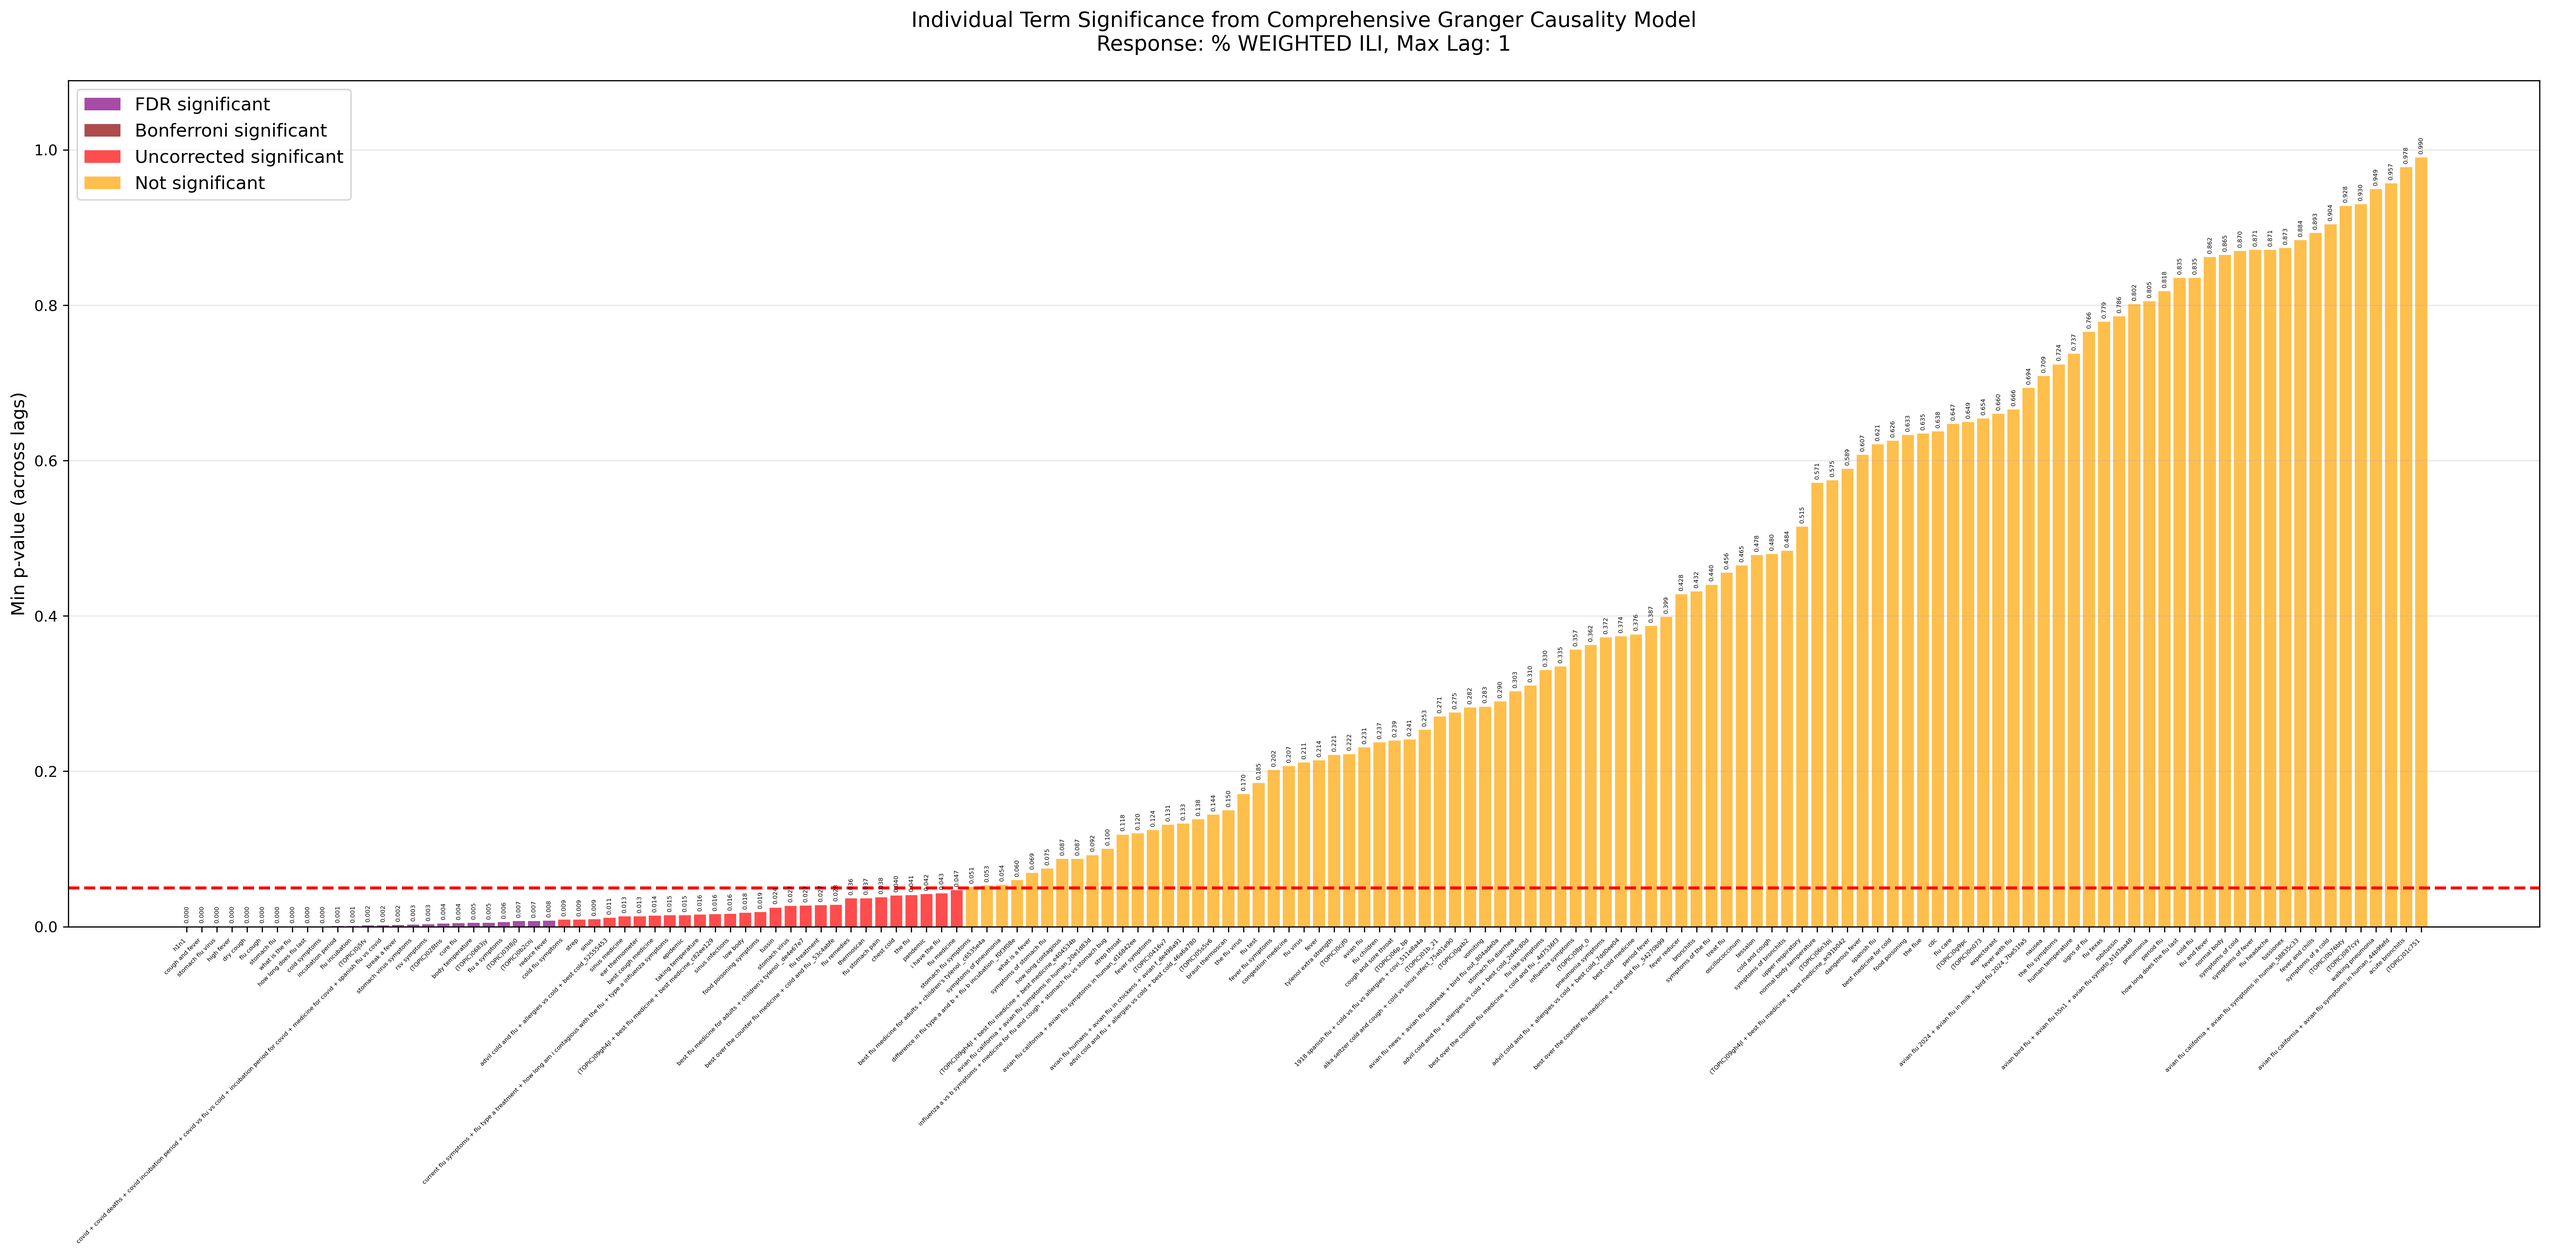
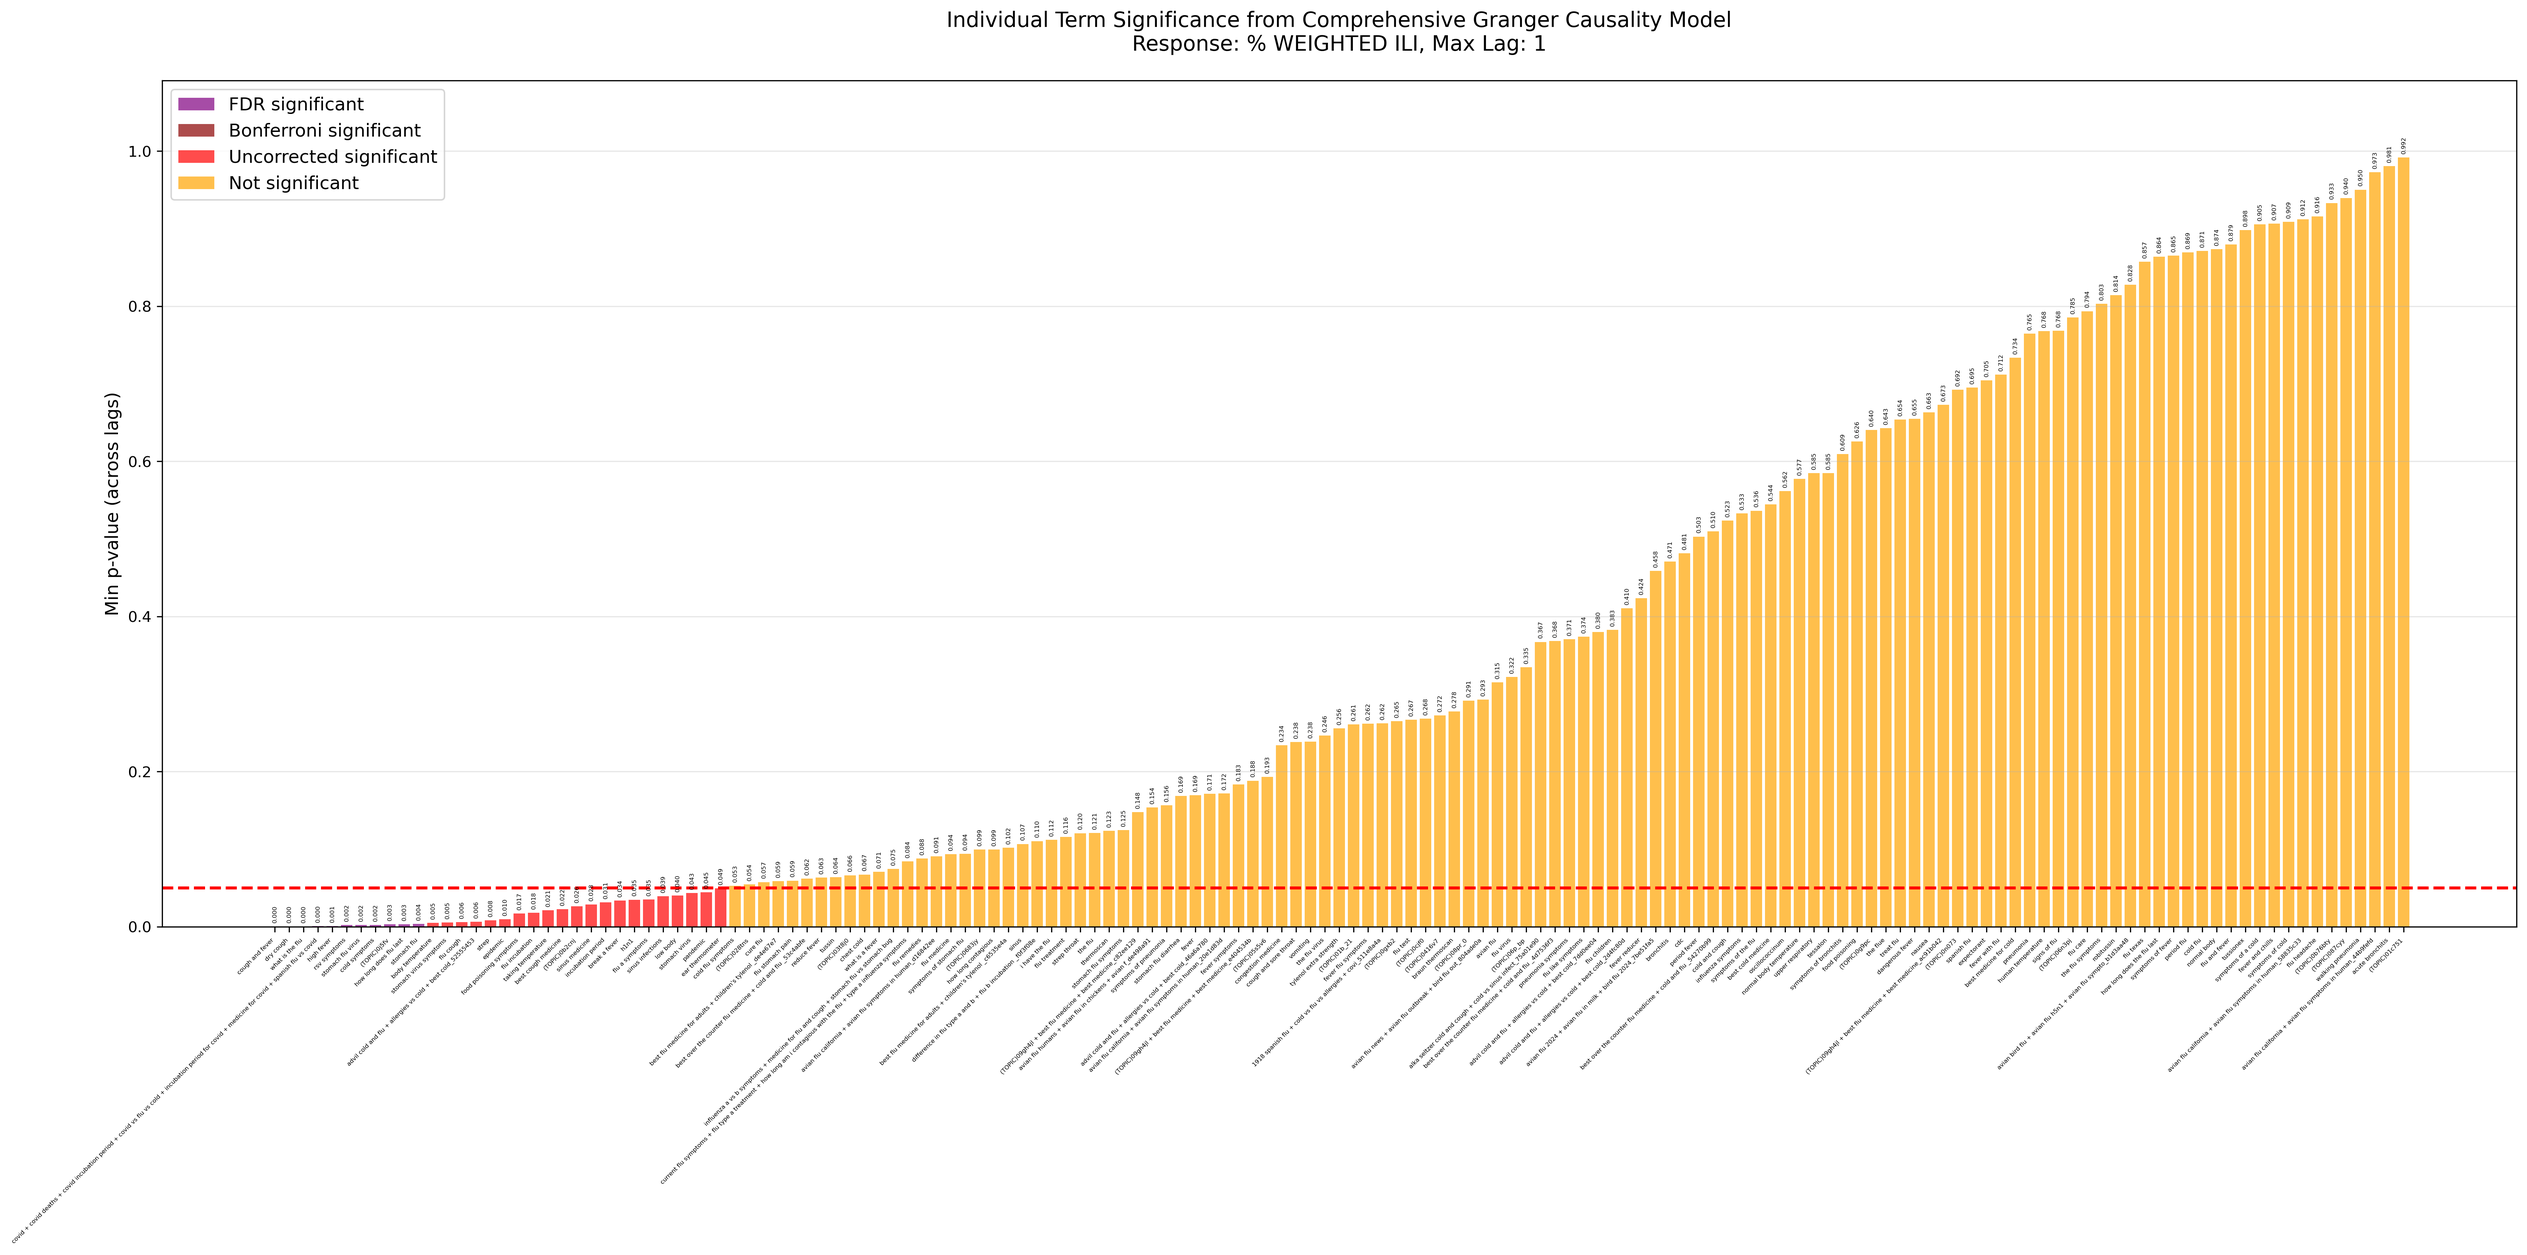
adj

diff --git a/Code/new/granger_causality_multiple_regression_ili.py b/Code/new/granger_causality_multiple_regression_ili.py
@@ -5,6 +5,7 @@ from scipy.stats import f
 import matplotlib.pyplot as plt
 from statsmodels.stats.stattools import durbin_watson
 from statsmodels.stats.multitest import multipletests
+from statsmodels.stats.sandwich_covariance import cov_hac_simple, cov_hac
 
 
 def load_and_prepare_data():
@@ -167,17 +168,20 @@ def analyze_individual_terms(model_unrestricted, filtered_columns, max_lag, resp
     # Count search term lags (excluding ILI lags and intercept)
     search_term_lags = [col for col in coef_results.index if not col.startswith('ili_lag') and col != 'const']
     num_tests = len(search_term_lags)
-    bonferroni_threshold = 0.05 / num_tests
+    bonferroni_threshold = 0.05 / num_tests if num_tests > 0 else 0.05
     
     # Perform FDR correction (Benjamini-Hochberg)
-    search_term_pvalues = coef_results.loc[search_term_lags, 'p-value'].values
-    fdr_rejected, fdr_pvalues, _, _ = multipletests(search_term_pvalues, method='fdr_bh', alpha=0.05)
-    
-    # Create mapping of terms to FDR significance
-    fdr_significant_terms = set()
-    for i, term in enumerate(search_term_lags):
-        if fdr_rejected[i]:
-            fdr_significant_terms.add(term)
+    if num_tests > 0:
+        search_term_pvalues = coef_results.loc[search_term_lags, 'p-value'].values
+        fdr_rejected, fdr_pvalues, _, _ = multipletests(search_term_pvalues, method='fdr_bh', alpha=0.05)
+        
+        # Create mapping of terms to FDR significance
+        fdr_significant_terms = set()
+        for i, term in enumerate(search_term_lags):
+            if fdr_rejected[i]:
+                fdr_significant_terms.add(term)
+    else:
+        fdr_significant_terms = set()
     
     print(f"\n=== INDIVIDUAL TERM ANALYSIS ===")
     print(f"Number of search term lags tested: {num_tests}")
@@ -321,7 +325,17 @@ def create_comprehensive_visualization(model_unrestricted, filtered_columns, max
         term_pvals = []
         for lag_col in term_lags:
             if lag_col in model_unrestricted.params.index:
-                pval = model_unrestricted.pvalues[lag_col]
+                # Get p-value for this lag
+                try:
+                    pval = model_unrestricted.pvalues[lag_col]
+                except (IndexError, TypeError):
+                    # For HAC results, pvalues might be a numpy array
+                    if hasattr(model_unrestricted.pvalues, 'loc'):
+                        pval = model_unrestricted.pvalues.loc[lag_col]
+                    else:
+                        # Find the index position
+                        param_index = list(model_unrestricted.params.index).index(lag_col)
+                        pval = model_unrestricted.pvalues[param_index]
                 term_pvals.append(pval)
         if term_pvals:
             min_p = min(term_pvals)
@@ -446,8 +460,8 @@ def create_comprehensive_visualization(model_unrestricted, filtered_columns, max
         print("No valid terms found for plotting")
 
 
-def perform_hac_analysis(df_ili, existing_flu_lags, existing_all_lags, response_var, F, p_value, maxlags=4):
-    """Perform HAC analysis using correct Wald test approach"""
+def perform_hac_analysis(df_ili, existing_flu_lags, existing_all_lags, response_var, F, p_value, maxlags=None):
+    """Perform HAC analysis using direct covariance matrix computation"""
     try:
         print(f"\n=== HAC ANALYSIS (Autocorrelation-Adjusted) ===")
         
@@ -455,36 +469,100 @@ def perform_hac_analysis(df_ili, existing_flu_lags, existing_all_lags, response_
         X_unrestricted = sm.add_constant(df_ili[existing_flu_lags + existing_all_lags])
         y = df_ili[response_var]
         
-
-        
         ols_u = sm.OLS(y, X_unrestricted).fit()
         
+        # Determine optimal maxlags if not provided
+        if maxlags is None:
+            # Use Newey-West automatic lag selection rule
+            # Rule: maxlags = floor(4*(T/100)^(2/9)) where T is sample size
+            T = len(y)
+            maxlags = int(np.floor(4 * (T/100)**(2/9)))
+            print(f"Automatic maxlags selection: {maxlags} (based on sample size T={T})")
+        
+        # Compute HAC covariance matrix using the correct approach
+        try:
+            # Use the built-in HAC method from statsmodels (most reliable)
+            ols_u_hac = ols_u.get_robustcov_results(cov_type='HAC', cov_kwds={'maxlags': int(maxlags)})
+            hac_cov = ols_u_hac.cov_params()
+            print(f"Using statsmodels built-in HAC method with maxlags={maxlags}")
+        except Exception as e:
+            print(f"Error with statsmodels HAC: {e}")
+            # Fallback: try cov_hac function
+            try:
+                hac_cov = cov_hac(ols_u, nlags=int(maxlags))
+                print(f"Using cov_hac function with maxlags={maxlags}")
+            except Exception as e2:
+                print(f"Error with cov_hac: {e2}")
+                # Final fallback: try cov_hac_simple
+                try:
+                    hac_cov = cov_hac_simple(ols_u.resid, ols_u.model.exog, nlags=int(maxlags))
+                    print(f"Using cov_hac_simple with maxlags={maxlags}")
+                except Exception as e3:
+                    print(f"Error with cov_hac_simple: {e3}")
+                    return None, None
+        
         # Build restriction matrix R to test that all search-term coefficients = 0
-        k_params = ols_u.params.size
+        k_params = len(ols_u.params)
         q = len(existing_all_lags)
         R = np.zeros((q, k_params))
         
         # Identify indices of search-term lag columns
+        search_indices = []
         for j, col in enumerate(X_unrestricted.columns):
             if col in existing_all_lags:
-                row = existing_all_lags.index(col)
-                R[row, j] = 1
+                row_idx = existing_all_lags.index(col)
+                R[row_idx, j] = 1
+                search_indices.append(j)
         
-        # Get HAC robust results object
-        ols_u_hac = ols_u.get_robustcov_results(cov_type='HAC', cov_kwds={'maxlags': maxlags})
+        # Compute Wald statistic manually using HAC covariance
+        beta = ols_u.params.values
+        Rbeta = R @ beta
+        RVR = R @ hac_cov @ R.T
         
-        # Run Wald/F test using HAC covariance
-        wald_res = ols_u_hac.f_test(R)
+        try:
+            wald_stat = Rbeta.T @ np.linalg.solve(RVR, Rbeta)
+        except np.linalg.LinAlgError:
+            print("Warning: Singular matrix in Wald test computation, using pseudo-inverse")
+            wald_stat = Rbeta.T @ np.linalg.pinv(RVR) @ Rbeta
+        
+        # Convert to F-statistic
+        f_stat_hac = wald_stat / q
+        df_num = q
+        df_denom = len(y) - k_params
+        
+        # Compute p-value
+        p_val_hac = 1 - f.cdf(f_stat_hac, df_num, df_denom)
         
         print(f"Original OLS F-statistic: {F:.4f}, p-value: {p_value:.6f}")
-        print(f"HAC Wald F-statistic: {wald_res.fvalue:.4f}, p-value: {wald_res.pvalue:.6f}")
-        print(f"Degrees of freedom: ({wald_res.df_num}, {wald_res.df_denom})")
+        print(f"HAC-adjusted F-statistic: {f_stat_hac:.4f}, p-value: {p_val_hac:.6f}")
+        print(f"Degrees of freedom: ({df_num}, {df_denom})")
         print(f"Max lags for HAC: {maxlags}")
         
-        return ols_u_hac, wald_res
+        # Create a mock results object for consistency with downstream functions
+        from scipy.stats import t
+        class HACResults:
+            def __init__(self, original_model, hac_cov, f_stat, p_val):
+                self.params = original_model.params
+                self.bse = np.sqrt(np.diag(hac_cov))
+                self.tvalues = self.params / self.bse
+                df = len(original_model.resid) - len(self.params)
+                self.pvalues = 2 * (1 - t.cdf(np.abs(self.tvalues), df))
+                self.rsquared = original_model.rsquared
+                self.fvalue = f_stat
+                self.pvalue = p_val
+                self.conf_int = lambda: pd.DataFrame({
+                    0: self.params - 1.96 * self.bse,
+                    1: self.params + 1.96 * self.bse
+                }, index=self.params.index)
+        
+        hac_results = HACResults(ols_u, hac_cov, f_stat_hac, p_val_hac)
+        
+        return hac_results, {'fvalue': f_stat_hac, 'pvalue': p_val_hac, 'df_num': df_num, 'df_denom': df_denom}
         
     except Exception as e:
         print(f"Error in HAC analysis: {e}")
+        import traceback
+        traceback.print_exc()
         return None, None
 
 
@@ -497,8 +575,6 @@ def perform_autocorrelation_correction(df_ili, existing_flu_lags, existing_all_l
         print("Method 1: Cochrane-Orcutt Transformation")
         X_unrestricted = sm.add_constant(df_ili[existing_flu_lags + existing_all_lags])
         y = df_ili[response_var]
-        
-
         
         # Fit initial model
         model_initial = sm.OLS(y, X_unrestricted).fit()
@@ -520,8 +596,6 @@ def perform_autocorrelation_correction(df_ili, existing_flu_lags, existing_all_l
             X_transformed = X_transformed[mask]
             y_transformed = y_transformed[mask]
             print(f"Removed {np.sum(~mask)} rows with infinite/NaN values from transformed X")
-        
-
         
         # Fit transformed model
         model_corrected = sm.OLS(y_transformed, X_transformed).fit()
@@ -545,19 +619,17 @@ def perform_hac_sensitivity_analysis(df_ili, existing_flu_lags, existing_all_lag
         X_unrestricted = sm.add_constant(df_ili[existing_flu_lags + existing_all_lags])
         y = df_ili[response_var]
         
-
-        
         ols_u = sm.OLS(y, X_unrestricted).fit()
         
         # Build restriction matrix
-        k_params = ols_u.params.size
+        k_params = len(ols_u.params)
         q = len(existing_all_lags)
         R = np.zeros((q, k_params))
         
         for j, col in enumerate(X_unrestricted.columns):
             if col in existing_all_lags:
-                row = existing_all_lags.index(col)
-                R[row, j] = 1
+                row_idx = existing_all_lags.index(col)
+                R[row_idx, j] = 1
         
         # Test different maxlags values
         maxlags_values = [1, 2, 4, 6, 8]
@@ -568,17 +640,43 @@ def perform_hac_sensitivity_analysis(df_ili, existing_flu_lags, existing_all_lag
         
         for maxlags in maxlags_values:
             try:
-                ols_u_hac = ols_u.get_robustcov_results(cov_type='HAC', cov_kwds={'maxlags': maxlags})
-                wald_res = ols_u_hac.f_test(R)
+                # Compute HAC covariance matrix using the correct approach
+                try:
+                    # Use the built-in HAC method from statsmodels (most reliable)
+                    ols_u_hac = ols_u.get_robustcov_results(cov_type='HAC', cov_kwds={'maxlags': int(maxlags)})
+                    hac_cov = ols_u_hac.cov_params()
+                except Exception as e:
+                    # Fallback: try cov_hac function
+                    try:
+                        hac_cov = cov_hac(ols_u, nlags=int(maxlags))
+                    except:
+                        # Final fallback: try cov_hac_simple
+                        hac_cov = cov_hac_simple(ols_u.resid, ols_u.model.exog, nlags=int(maxlags))
                 
-                significant = "Yes" if wald_res.pvalue < 0.05 else "No"
-                print(f"{maxlags:<8} {wald_res.fvalue:<12.4f} {wald_res.pvalue:<12.6f} {significant:<12}")
+                # Compute Wald statistic manually
+                beta = ols_u.params.values
+                Rbeta = R @ beta
+                RVR = R @ hac_cov @ R.T
+                
+                try:
+                    wald_stat = Rbeta.T @ np.linalg.solve(RVR, Rbeta)
+                except np.linalg.LinAlgError:
+                    wald_stat = Rbeta.T @ np.linalg.pinv(RVR) @ Rbeta
+                
+                # Convert to F-statistic
+                f_stat_hac = wald_stat / q
+                df_num = q
+                df_denom = len(y) - k_params
+                p_val_hac = 1 - f.cdf(f_stat_hac, df_num, df_denom)
+                
+                significant = "Yes" if p_val_hac < 0.05 else "No"
+                print(f"{maxlags:<8} {f_stat_hac:<12.4f} {p_val_hac:<12.6f} {significant:<12}")
                 
                 results.append({
                     'maxlags': maxlags,
-                    'f_statistic': wald_res.fvalue,
-                    'p_value': wald_res.pvalue,
-                    'significant': wald_res.pvalue < 0.05
+                    'f_statistic': f_stat_hac,
+                    'p_value': p_val_hac,
+                    'significant': p_val_hac < 0.05
                 })
                 
             except Exception as e:
@@ -598,6 +696,8 @@ def perform_hac_sensitivity_analysis(df_ili, existing_flu_lags, existing_all_lag
         
     except Exception as e:
         print(f"Error in HAC sensitivity analysis: {e}")
+        import traceback
+        traceback.print_exc()
         return None
 
 
@@ -631,7 +731,7 @@ def main():
             
             # Method 1: HAC standard errors (corrected approach)
             ols_u_hac, wald_res = perform_hac_analysis(
-                df_ili, existing_flu_lags, existing_all_lags, response_var, F, p_value, maxlags=4
+                df_ili, existing_flu_lags, existing_all_lags, response_var, F, p_value, maxlags=None
             )
             
             # Method 2: Cochrane-Orcutt transformation
@@ -639,19 +739,17 @@ def main():
                 df_ili, existing_flu_lags, existing_all_lags, response_var
             )
             
-            # Method 3: HAC sensitivity analysis
-            hac_sensitivity_results = perform_hac_sensitivity_analysis(
-                df_ili, existing_flu_lags, existing_all_lags, response_var
-            )
-            
             # Use HAC-adjusted results for individual term analysis
             if ols_u_hac is not None:
                 print(f"\nUsing HAC-adjusted results for individual term analysis...")
                 # Use the HAC-adjusted model for individual term analysis
-                analyze_individual_terms(ols_u_hac, filtered_columns, max_lag, response_var, wald_res.fvalue, wald_res.pvalue)
+                analyze_individual_terms(ols_u_hac, filtered_columns, max_lag, response_var, wald_res['fvalue'], wald_res['pvalue'])
             else:
                 print(f"\nUsing original results for individual term analysis...")
                 analyze_individual_terms(model_unrestricted, filtered_columns, max_lag, response_var, F, p_value)
+            
+            # Perform HAC sensitivity analysis
+            perform_hac_sensitivity_analysis(df_ili, existing_flu_lags, existing_all_lags, response_var)
         else:
             # No autocorrelation detected, use original results
             print(f"\n✓ No autocorrelation detected. Using standard results...")
@@ -664,4 +762,3 @@ def main():
 
 if __name__ == "__main__":
     main()
-
